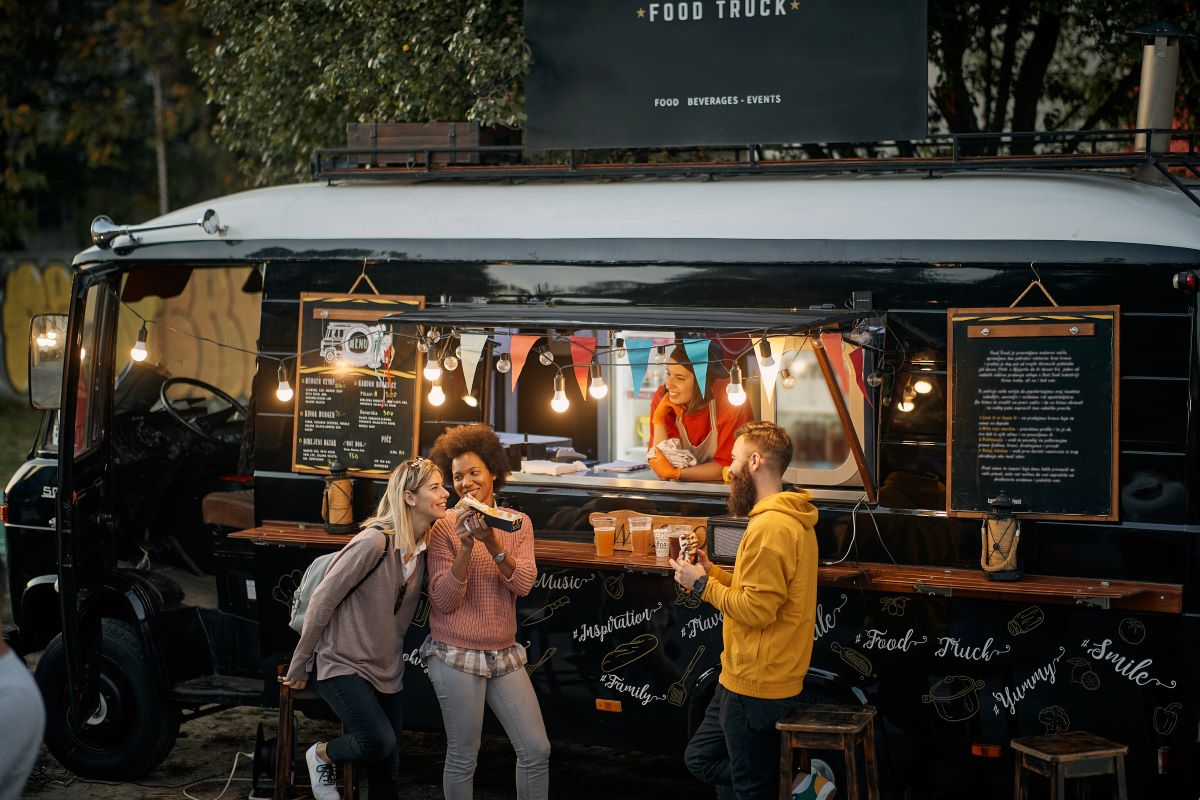
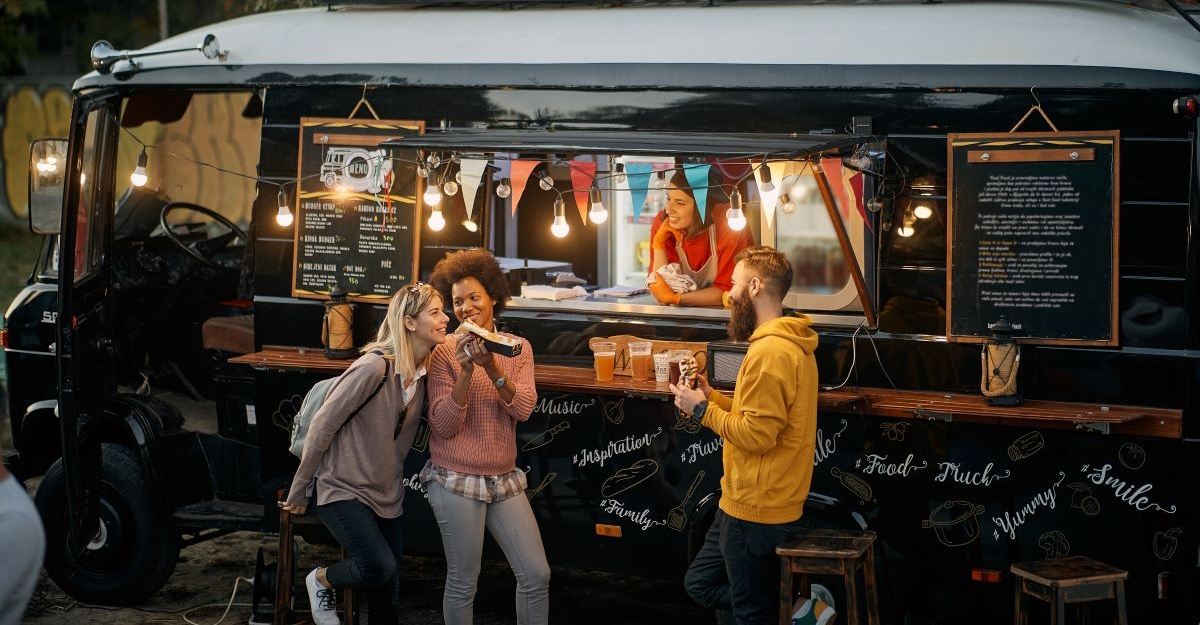
cambio sitio

diff --git a/index.html b/index.html
@@ -80,6 +80,7 @@ data-aos-easing="ease-in-sine">
   <img src="./multimedia/usuario.png" alt="User" width="30px" color="white">
 <p>
   <label for="Usuario"> Usuario </label>
+  
   <input type="text" name="nombre usuario" id="nombre Usuario" placeholder=" ID Usuario" required>
 </p>
 
@@ -178,10 +179,12 @@ data-aos-easing="ease-in-sine">
 
 <!--click pedido-->
 <form>
+  <div class="btn">
   <a href="../src/paginas/carrito.html"><input type="button" value="Pedir"></a> 
   <input type="reset">
   </form>
 </div>
+  </div>
     </div>
 
   <!--PRODUCTOS-->
@@ -198,10 +201,12 @@ data-aos-easing="ease-in-sine">
 
 <!--click pedido-->
 <form>
+  <div class="btn">
   <a href="../src/paginas/carrito.html"><input type="button" value="Pedir"></a> 
   <input type="reset">
   </form>
 </div>
+  </div>
      </div>
 <!--producto-->
       <div class="vertical">
@@ -216,10 +221,12 @@ data-aos-easing="ease-in-sine">
 
  <!--click pedido-->
 <form>
+  <div class="btn">
   <a href="../src/paginas/carrito.html"><input type="button" value="Pedir"></a> 
   <input type="reset">
   </form>
 </div>
+  </div>
     </div>
     <!--producto-->
          <div class="vertical">
@@ -235,10 +242,12 @@ data-aos-easing="ease-in-sine">
 
 <!--click pedido-->
 <form>
+  <div class="btn">
   <a href="../src/paginas/carrito.html"><input type="button" value="Pedir"></a> 
   <input type="reset">
   </form>
 </div>
+  </div>
     </div>
     <!--producto-->
       <div class="vertical">
@@ -251,13 +260,15 @@ data-aos-easing="ease-in-sine">
         <p>Hamburguesa Alemana: El sabor Aleman en una sola hamburguesa (Pan frica, hamburguesa, tocino, queso, pepinillos).</p>
     <P>Directo de la cocina a tu mesa.</P>
 
-    
+  
     <!--click pedido-->
 <form>
+  <div class="btn">
  <a href="../src/paginas/carrito.html"><input type="button" value="Pedir"></a>
   <input type="reset">
   </form>
 </div>
+  </div>
      </div>  
         </div>
 
@@ -294,12 +305,14 @@ data-aos-easing="ease-in-sine">
 
   <!--click pedido-->
 <form>
+  <div class="btn">
   <input type="button" value="Pedir">
   <a href="../src/paginas/subpaginas/hamburguesas.html">
   <input type="reset">
   </a>
   </form>
 </div>
+  </div>
 
   <!--Producto-->
       <div class="vertical"><img src="https://www.hola.com/imagenes/cocina/recetas/20210208183946/sandwich-jamon-queso/1-72-559/sandwich-havar-adob-m.jpg" width="400px">
@@ -308,12 +321,14 @@ data-aos-easing="ease-in-sine">
   
     <!--click pedido-->
   <form>
+     <div class="btn">
     <input type="button" value="Pedir">
     <a href="../src/paginas/subpaginas/hamburguesas.html">
     <input type="reset">
     </a>
     </form>
-  </div> 
+  </div>
+    </div> 
 
   <!--Producto-->
       <div class="vertical"><img src="https://www.enoturismochile.cl/wp-content/uploads/2021/11/ave-palta-web.jpg" width="300px">
@@ -322,12 +337,14 @@ data-aos-easing="ease-in-sine">
 
      <!--click pedido-->
  <form>
+  <div class="btn">
   <input type="button" value="Pedir">
   <a href="../src/paginas/subpaginas/hamburguesas.html">
   <input type="reset">
   </a>
   </form>
 </div>
+  </div>
    <!--producto-->
       <div class="vertical"><img src="https://i.pinimg.com/474x/4a/34/25/4a3425d4eba5e83ebbf8b65b149e596f.jpg" width="300px">
       <!--descripción de producto-->
@@ -336,12 +353,14 @@ data-aos-easing="ease-in-sine">
   
       <!--click pedido-->
   <form>
+    <div class="btn">
     <input type="button" value="Pedir">
     <a href="../src/paginas/subpaginas/hamburguesas.html">
     <input type="reset">
     </a>
     </form>
   </div>
+    </div>
 <!--producto-->
       <div class="vertical"><img src="https://i0.wp.com/revistamariaorsini.com/wp-content/uploads/2018/01/sandwichpesto-1.jpg?fit=750%2C1057&ssl=1">
       <!--descripción producto-->
@@ -350,13 +369,14 @@ data-aos-easing="ease-in-sine">
 
       <!--click pedido-->
       <form>
+        <div class="btn">
         <input type="button" value="Pedir">
         <a href="../src/paginas/subpaginas/hamburguesas.html">
         <input type="reset">
         </a>
         </form>
       </div>
-
+        </div>
     </div>
  
  <section>

diff --git a/css/estilos.css b/css/estilos.css
@@ -196,9 +196,9 @@ main{
 
 
 header{
-    background-image: url(../imagenes/foodtruck\ burguers.jpg);
+    background-image: url(../imagenes/foodtruck.jpeg);
     width:1600x;
-    height:630px;
+    height:625px;
     flex-wrap: wrap;
     position:static;
     background-repeat: no-repeat;
@@ -279,7 +279,7 @@ article{
     background-color: #353535;
     display: block;
     overflow-x: hidden;
-    width:580px;
+    width:540px;
     height:300px;
     margin:30px;
     border-radius: 5%;
@@ -342,9 +342,10 @@ a{
 
 .btn{
     color:rgb(255, 255, 255);
-    margin:25px;
+    margin:10px;
     display:flexbox;
     margin-top: 10px;
+    align-content: space-between;
 }
 
 .call{
